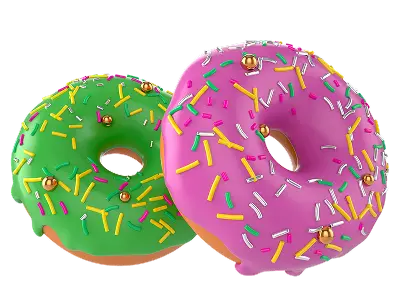
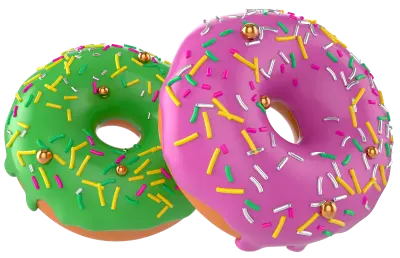
update spring duo image and improve menu item layout

diff --git a/src/styles/components/menu-item.css b/src/styles/components/menu-item.css
@@ -1,8 +1,14 @@
+.menu-item {
+  display                             : flex;
+  flex-direction                      : column;
+}
+
 .menu-item-image-container {
   display                             : flex;
   align-items                         : center;
   justify-content                     : center;
   margin-bottom                       : 1.5rem;
+  flex-grow                           : 1;
 }
 
 .menu-item-image {
